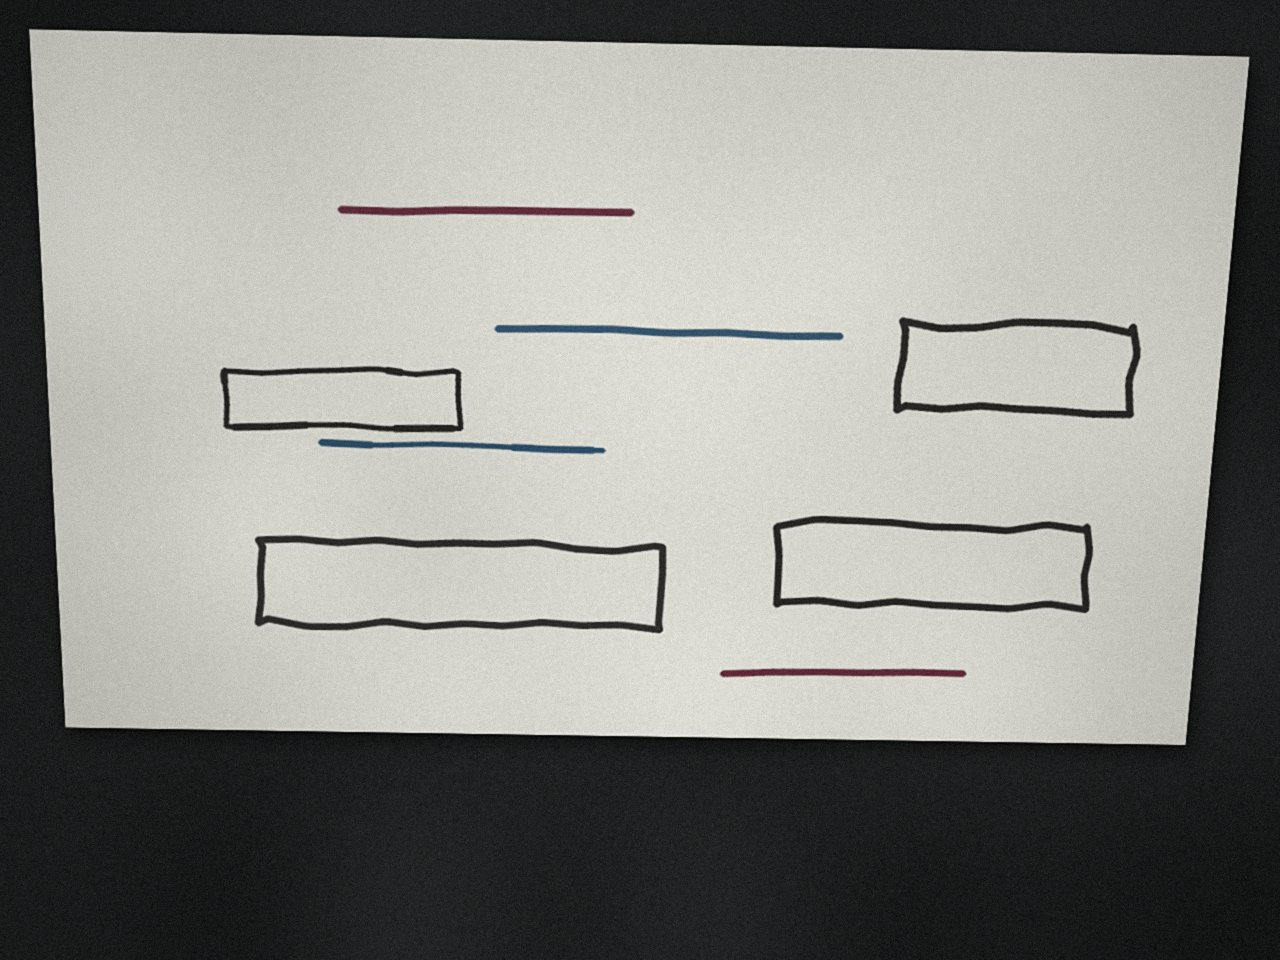
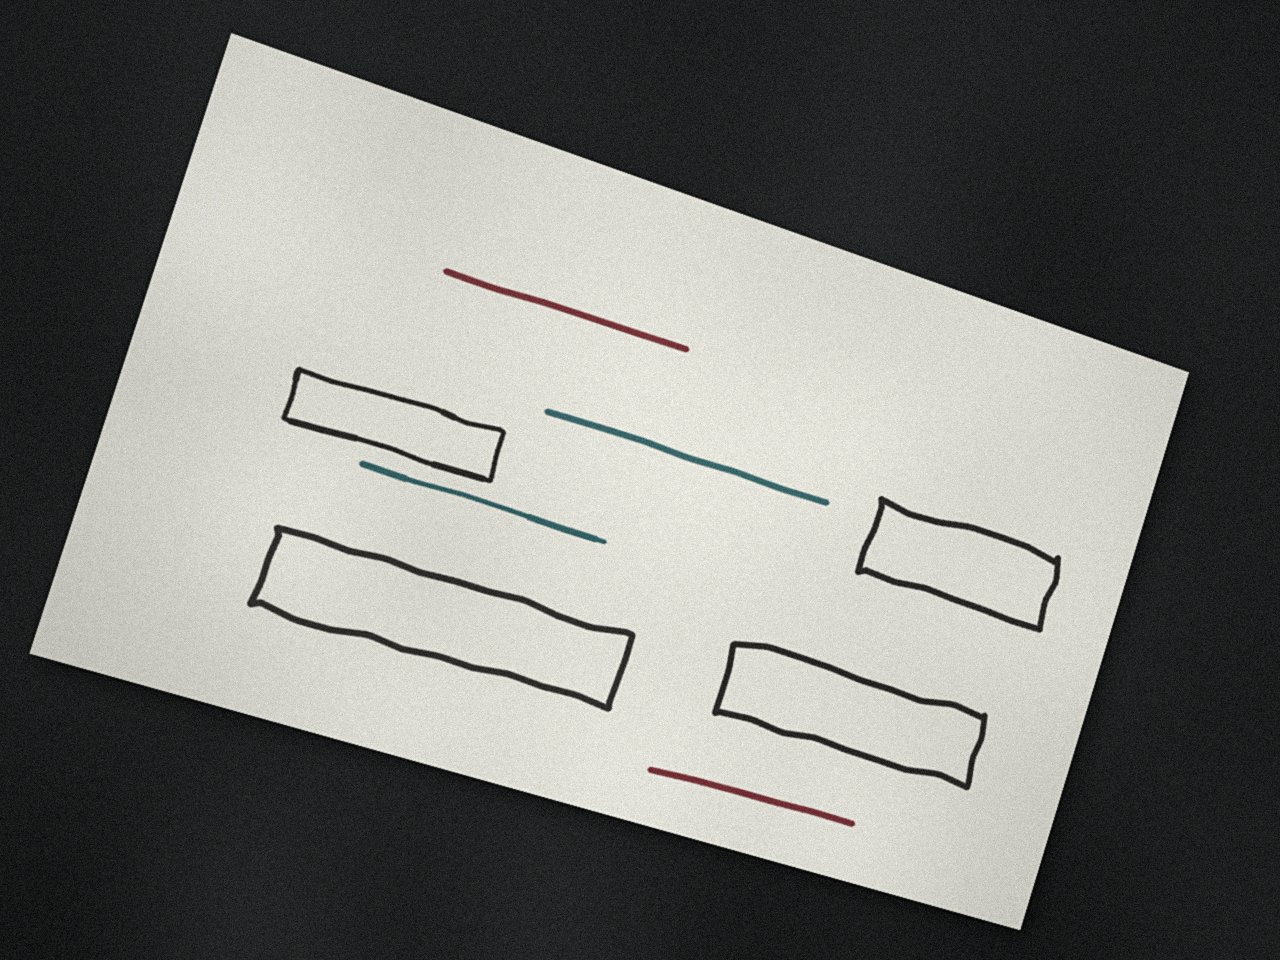
WIP: fine-grid backend port in progress (new pen-line sample cards)
Claude-Session: https://claude.ai/code/session_018TY2xp9UXBz2JdYEf7hVSL

diff --git a/sketch-fighter/backend/tools/make_samples.py b/sketch-fighter/backend/tools/make_samples.py
@@ -1,8 +1,14 @@
 """Renders synthetic phone photos of hand-drawn index cards, plus the grid each one should scan to.
 
 Run from backend/:  python -m tools.make_samples
-Writes samples/card-NN.jpg and samples/card-NN.truth.json ({"grid": rows x cols tile codes}).
+Writes samples/card-NN.jpg and samples/card-NN.truth.json: {"grid": rows x cols tile codes, "lines": the
+thin pen lines, each {"code", "cells": [[col, row], ...] in drawing order}}.
 Every card has a fixed seed, so repeated runs produce the same files.
+
+Cards are designed on a 40 x 24 grid (DESIGN_COLS x DESIGN_ROWS) and scored on the game grid, an exact
+multiple of it. Truth on the game grid: filled blocks, outlined blocks and marker strokes cover every game
+tile of their design tiles (upsampling); a thin pen line is the line of tiles its centre line passes
+through (line_cells), one tile thick, steps connected edge to edge.
 """
 
 import json
@@ -16,8 +22,12 @@ from config import GAME
 
 SAMPLES_DIR = Path(__file__).resolve().parents[2] / "samples"
 COLS, ROWS = GAME["cols"], GAME["rows"]
+DESIGN_COLS, DESIGN_ROWS = 40, 24
+SCALE = COLS // DESIGN_COLS  # game tiles per design tile
+assert (DESIGN_COLS * SCALE, DESIGN_ROWS * SCALE) == (COLS, ROWS), "the game grid must be a multiple of 40 x 24"
 EMPTY, SOLID, PASS, HAZARD = 0, 1, 2, 3
-TILE = 30  # card render resolution (px per tile) before the card is "photographed"
+TILE = 30  # card render resolution (px per design tile) before the card is "photographed"
+PEN_KINDS = ("pen", "line")
 CARD_ASPECT = 5 / 3
 
 # Marker reflectance per BGR channel: 1 lets the paper show through. One variant is picked per card.
@@ -28,7 +38,7 @@ INKS = {
 }
 
 PEN_INKS = {
-    SOLID: [(0.12, 0.12, 0.13)],
+    SOLID: [(0.12, 0.12, 0.13), (0.20, 0.19, 0.21)],  # fineliner, ballpoint
     PASS: [(0.45, 0.30, 0.14), (0.42, 0.38, 0.16)],  # navy, dark teal
     HAZARD: [(0.20, 0.16, 0.48), (0.22, 0.14, 0.40)],  # maroon
 }
@@ -43,13 +53,14 @@ TABLES = {  # base reflectance (BGR) of dark venue tables
 # Light colour gains (BGR): phones do not fully correct warm or cool venue lighting.
 LIGHTS = {"neutral": (1.0, 1.0, 1.0), "warm": (0.82, 0.96, 1.07), "cool": (1.08, 1.0, 0.86)}
 
-# Shapes use tile coordinates, rows and cols inclusive:
+# Shapes use design tile coordinates (40 x 24), rows and cols inclusive:
 #   ("block", code, r0, r1, c0, c1)  filled marker area
-#   ("stroke", code, r, r, c0, c1)   one marker line about a tile thick
+#   ("stroke", code, r, r, c0, c1)   one marker line about a design tile thick
 #   ("zigzag", HAZARD, r, r, c0, c1) red spikes across one row
 #   ("outline", SOLID, r0, r1, c0, c1) a block drawn as a thin pen outline (it means solid ground)
-#   ("pen", code, r, r, c0, c1)      a thin pen line along one row
-# A card's "inks" picks darker pen colours: maroon red and navy / teal blue photograph dark.
+#   ("pen", code, r, r, c0, c1)      a thin pen line along one row, in the lower half of the row
+#   ("line", code, (x0, y0), (x1, y1)) a thin pen line between two points (design tile units, x right, y down)
+# A card with "pen" uses pen inks: maroon red and navy / teal blue photograph dark.
 CARDS = [
     {
         "name": "classic", "seed": 101, "frame": (1280, 960), "light": "neutral", "table": "walnut", "curl": True,
@@ -183,14 +194,103 @@ CARDS = [
             ("pen", HAZARD, 19, 19, 17, 22),
         ],
     },
+    # Thin pen lines only, the way people sketch a stage with a fineliner: flat ledges at several
+    # heights, a gentle (10 deg) and a steep (25 deg) slope, and a wall standing on the ground.
+    {
+        "name": "pen lines", "seed": 1201, "frame": (1280, 960), "light": "neutral", "table": "slate", "pen": True,
+        "shapes": [
+            ("line", SOLID, (3.0, 20.25), (37.0, 20.25)),
+            ("line", SOLID, (5.0, 16.75), (17.0, 14.63)),
+            ("line", SOLID, (21.5, 17.75), (29.0, 14.25)),
+            ("line", SOLID, (34.25, 12.5), (34.25, 19.6)),
+            ("line", SOLID, (6.0, 9.25), (15.0, 9.25)),
+            ("line", SOLID, (24.0, 8.75), (33.0, 8.75)),
+            ("line", SOLID, (16.0, 4.75), (23.0, 4.75)),
+        ],
+    },
+    {
+        "name": "slanted colour pens", "seed": 1202, "frame": (1280, 960), "light": "cool", "table": "walnut",
+        "pen": True, "shadow": True,
+        "shapes": [
+            ("outline", SOLID, 16, 18, 13, 26),
+            ("line", PASS, (4.0, 13.25), (12.0, 10.5)),
+            ("line", PASS, (28.0, 10.6), (36.0, 13.4)),
+            ("line", PASS, (15.0, 7.25), (25.0, 6.0)),
+            ("line", HAZARD, (3.0, 21.0), (12.0, 19.0)),
+            ("line", HAZARD, (28.0, 19.2), (37.0, 21.3)),
+            ("line", HAZARD, (17.0, 13.6), (22.0, 10.7)),
+        ],
+    },
+    # Like a real photo of a pen sketch: many short black lines, a few blue ones, one long red one, warm light.
+    {
+        "name": "pen sketch, warm", "seed": 1203, "frame": (1280, 960), "light": "warm", "table": "felt", "pen": True,
+        "shadow": True,
+        "shapes": [
+            ("line", SOLID, (3.0, 17.75), (8.5, 17.75)),
+            ("line", SOLID, (10.0, 15.25), (14.5, 15.6)),
+            ("line", SOLID, (17.0, 17.25), (22.0, 16.5)),
+            ("line", SOLID, (25.0, 15.75), (29.5, 15.75)),
+            ("line", SOLID, (31.0, 17.75), (37.0, 18.6)),
+            ("line", SOLID, (5.0, 12.25), (9.0, 11.6)),
+            ("line", SOLID, (30.5, 11.75), (35.0, 12.25)),
+            ("line", SOLID, (12.0, 9.25), (16.0, 9.25)),
+            ("line", SOLID, (24.0, 9.75), (28.5, 9.1)),
+            ("line", SOLID, (18.0, 5.75), (22.0, 5.75)),
+            ("line", PASS, (14.0, 12.75), (20.0, 12.4)),
+            ("line", PASS, (21.0, 13.25), (27.0, 13.25)),
+            ("line", PASS, (4.0, 7.25), (10.0, 6.75)),
+            ("line", HAZARD, (4.0, 21.75), (36.0, 21.25)),
+        ],
+    },
 ]
 
 
-def truth_grid(shapes):
+def truth(shapes, pen_lines):
+    """(grid, lines) on the game grid. pen_lines: (code, centre line in design tile units) per pen shape,
+    in shape order. Later shapes overwrite earlier ones."""
     grid = np.zeros((ROWS, COLS), np.uint8)
-    for _, code, r0, r1, c0, c1 in shapes:
-        grid[r0:r1 + 1, c0:c1 + 1] = code
-    return grid
+    lines = []
+    pen = iter(pen_lines)
+    for item in shapes:
+        kind, code = item[0], item[1]
+        if kind in PEN_KINDS:
+            cells = line_cells(next(pen)[1] * SCALE)
+            for c, r in cells:
+                grid[r, c] = code
+            lines.append({"code": int(code), "cells": [[int(c), int(r)] for c, r in cells]})
+        else:
+            _, _, r0, r1, c0, c1 = item
+            grid[r0 * SCALE:(r1 + 1) * SCALE, c0 * SCALE:(c1 + 1) * SCALE] = code
+    return grid, lines
+
+
+def line_cells(points, step=0.02):
+    """The game tiles a pen's centre line passes through, as (col, row) in drawing order, each once.
+
+    points: the centre line as a polyline in game tile units (x right, y down). A tile counts when the line
+    runs through it. Where the line crosses a tile corner exactly, the tile beside the earlier one along x
+    is added, so consecutive tiles always share an edge. A straight line gives a line one tile thick: one
+    tile per column (per row if steeper than 45 deg), plus one where it steps to the next row (column).
+    """
+    points = np.asarray(points, float)
+    dense = [points[:1]]
+    for p, q in zip(points[:-1], points[1:]):
+        n = max(1, int(math.ceil(np.hypot(*(q - p)) / step)))
+        dense.append(p + np.linspace(0, 1, n + 1)[1:, None] * (q - p))
+    xy = np.floor(np.concatenate(dense)).astype(int)
+    xy[:, 0] = np.clip(xy[:, 0], 0, COLS - 1)
+    xy[:, 1] = np.clip(xy[:, 1], 0, ROWS - 1)
+    cells, seen = [], set()
+    for c, r in map(tuple, xy):
+        if cells and abs(c - cells[-1][0]) + abs(r - cells[-1][1]) == 2:
+            corner = (c, cells[-1][1])
+            if corner not in seen:
+                seen.add(corner)
+                cells.append(corner)
+        if (c, r) not in seen:
+            seen.add((c, r))
+            cells.append((c, r))
+    return cells
 
 
 # --- drawing ---------------------------------------------------------------------------------
@@ -256,14 +356,23 @@ def _polyline_alpha(rng, shape, points, width):
     return mask.astype(np.float32) / 255 * streaks * rng.uniform(0.92, 0.99)
 
 
-def _stroke_points(rng, r, c0, c1, width):
-    """A horizontal line along row r that starts and ends inside its first and last tile."""
+def _stroke_points(rng, r, c0, c1, width, height=0.5):
+    """A horizontal line along row r, height down into the row, that starts and ends inside its first and last tile."""
     x0 = c0 + width / 2 + rng.uniform(-0.12, 0.25)
     x1 = c1 + 1 - width / 2 - rng.uniform(-0.12, 0.25)
     xs = np.linspace(x0, x1, max(8, int((x1 - x0) * 3)))
     slope = rng.uniform(-0.1, 0.1) * np.linspace(-1, 1, len(xs))  # the line drifts a little across the row
-    ys = r + 0.5 + rng.uniform(-0.05, 0.05) + slope + _wobble(rng, len(xs), -0.06, 0.06)
+    ys = r + height + rng.uniform(-0.05, 0.05) + slope + _wobble(rng, len(xs), -0.06, 0.06)
     return np.stack([xs, ys], 1)
+
+
+def _line_points(rng, start, end):
+    """A pen line from start to end (design tile units): straight, with a slight sideways wobble of the hand."""
+    start, end = np.asarray(start, float), np.asarray(end, float)
+    length = math.hypot(*(end - start))
+    t = np.linspace(0, 1, max(8, int(length * 3)))[:, None]
+    normal = np.array([-(end - start)[1], (end - start)[0]]) / length
+    return start + t * (end - start) + _wobble(rng, len(t), -0.04, 0.04)[:, None] * normal
 
 
 def _zigzag_points(rng, r, c0, c1, width):
@@ -281,20 +390,29 @@ def _outline_points(rng, r0, r1, c0, c1):
 
 
 def _shape_alpha(rng, shape, item, xx, yy):
-    kind, _, r0, r1, c0, c1 = item
+    """(alpha, centre line in design tile units for a pen line, else None)."""
+    kind = item[0]
+    if kind == "line":
+        width = rng.uniform(0.12, 0.18)
+        points = _line_points(rng, item[2], item[3])
+        return _polyline_alpha(rng, shape, points, width), points
+    _, _, r0, r1, c0, c1 = item
     if kind == "outline":
         width = rng.uniform(0.14, 0.2)
-        return _polyline_alpha(rng, shape, _outline_points(rng, r0, r1, c0, c1), width)
+        return _polyline_alpha(rng, shape, _outline_points(rng, r0, r1, c0, c1), width), None
     if kind == "pen":
+        # In the lower half of the row: a pen line one game tile thick, away from the game-tile boundary
+        # at mid-row, so the tiles it covers are not decided by the hand's wobble.
         width = rng.uniform(0.14, 0.2)
-        return _polyline_alpha(rng, shape, _stroke_points(rng, r0, c0, c1, width), width)
+        points = _stroke_points(rng, r0, c0, c1, width, height=0.75)
+        return _polyline_alpha(rng, shape, points, width), points
     if kind == "block":
-        return _fill_alpha(rng, shape, _block_polygon(rng, r0, r1, c0, c1), xx, yy)
+        return _fill_alpha(rng, shape, _block_polygon(rng, r0, r1, c0, c1), xx, yy), None
     if kind == "stroke":
         width = rng.uniform(0.78, 0.95)
-        return _polyline_alpha(rng, shape, _stroke_points(rng, r0, c0, c1, width), width)
+        return _polyline_alpha(rng, shape, _stroke_points(rng, r0, c0, c1, width), width), None
     width = rng.uniform(0.25, 0.32)
-    return _polyline_alpha(rng, shape, _zigzag_points(rng, r0, c0, c1, width), width)
+    return _polyline_alpha(rng, shape, _zigzag_points(rng, r0, c0, c1, width), width), None
 
 
 def _pencil_marks(rng, card):
@@ -311,21 +429,25 @@ def _pencil_marks(rng, card):
 
 
 def render_card(rng, card_spec):
-    h, w = ROWS * TILE, COLS * TILE
+    """(card as float BGR 0..1, [(code, centre line in design tile units)] for each pen line)."""
+    h, w = DESIGN_ROWS * TILE, DESIGN_COLS * TILE
     yy, xx = np.mgrid[0:h, 0:w].astype(np.float32)
     card = _paper(rng, h, w)
     if card_spec.get("pencil"):
         card = _pencil_marks(rng, card)
     layers = {code: np.zeros((h, w), np.float32) for code in INKS}
+    pen_lines = []
     for item in card_spec["shapes"]:
-        alpha = _shape_alpha(rng, (h, w), item, xx, yy)
+        alpha, centre = _shape_alpha(rng, (h, w), item, xx, yy)
         layers[item[1]] = 1 - (1 - layers[item[1]]) * (1 - alpha)  # overlapping marker gets darker
+        if centre is not None:
+            pen_lines.append((item[1], centre))
     inks = PEN_INKS if card_spec.get("pen") else INKS
     for code, alpha in layers.items():
         variants = inks[code]
         ink = np.array(variants[rng.integers(len(variants))], np.float32)
         card *= 1 - alpha[..., None] * (1 - ink)
-    return card
+    return card, pen_lines
 
 
 # --- photographing -----------------------------------------------------------------------------
@@ -417,9 +539,10 @@ def _motion_kernel(rng):
 
 
 def render_photo(card_spec):
+    """(JPEG bytes, truth grid, truth lines): see truth()."""
     rng = np.random.default_rng(card_spec["seed"])
     frame_w, frame_h = card_spec["frame"]
-    card = render_card(rng, card_spec)
+    card, pen_lines = render_card(rng, card_spec)
     ch, cw = card.shape[:2]
     pad = 12 if card_spec.get("curl") else 0
     if pad:
@@ -455,16 +578,18 @@ def render_photo(card_spec):
     photo = np.clip(scene, 0, 255).astype(np.uint8)
     ok, jpeg = cv2.imencode(".jpg", photo, [cv2.IMWRITE_JPEG_QUALITY, 85])
     assert ok
-    return jpeg.tobytes()
+    grid, lines = truth(card_spec["shapes"], pen_lines)
+    return jpeg.tobytes(), grid, lines
 
 
 def main():
     SAMPLES_DIR.mkdir(exist_ok=True)
     for i, spec in enumerate(CARDS, 1):
         stem = SAMPLES_DIR / f"card-{i:02d}"
-        stem.with_suffix(".jpg").write_bytes(render_photo(spec))
-        grid = truth_grid(spec["shapes"]).tolist()
-        stem.with_suffix(".truth.json").write_text(json.dumps({"grid": grid}, separators=(",", ":")) + "\n")
+        jpeg, grid, lines = render_photo(spec)
+        stem.with_suffix(".jpg").write_bytes(jpeg)
+        stem.with_suffix(".truth.json").write_text(
+            json.dumps({"grid": grid.tolist(), "lines": lines}, separators=(",", ":")) + "\n")
         print(f"{stem.name}: {spec['name']}")
 
 
